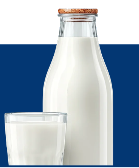
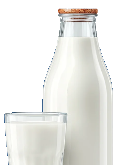
fix(reports): clean KPI cutouts and align Milk Component Dashboard payments with Tab 2

diff --git a/src/lib/sbfp-dashboard-infographic.ts b/src/lib/sbfp-dashboard-infographic.ts
@@ -5,15 +5,18 @@
 
 import { excludeAuxSbfp } from '@/lib/sbfp-aux'
 import { uniqueSdoCountKey } from '@/lib/sbfp-dropoff-sync'
-import { finishedMilkLiters } from '@/lib/sbfp-pack-price'
 import { parseSnapshotDate } from '@/lib/sbfp-raw-milk'
 import {
+  addSbfpSenateMetrics,
   buildSdoHierarchyStatusMap,
   cumulativeDeliveredPacksOnOrBefore,
   effectivePacksToDeliver,
+  emptySbfpSenateMetrics,
   rowMatchesReportCenterFilter,
   sbfpRowVisibleInReportDefault,
+  senateMetricsForRow,
   type SbfpReportSourceRow,
+  type SbfpSenateMetrics,
 } from '@/lib/sbfp-report-sync'
 
 const REGION_ORDER: Record<string, number> = {
@@ -43,28 +46,6 @@ const REGION_ORDER: Record<string, number> = {
 
 export function regionSortKey(region: string): number {
   return REGION_ORDER[region?.trim().toUpperCase()] ?? 99
-}
-
-function startOfDayMs(d: Date): number {
-  return new Date(d.getFullYear(), d.getMonth(), d.getDate()).getTime()
-}
-
-/** Sum payment entries whose date is on or before `asOfIso` (undated entries always count). */
-export function sumPaymentEntriesAsOf(entries: unknown, asOfIso: string): number {
-  if (!Array.isArray(entries)) return 0
-  const cutoff = parseSnapshotDate(asOfIso)
-  const cutoffMs = cutoff ? startOfDayMs(cutoff) : null
-  return entries.reduce((sum, entry) => {
-    if (!entry || typeof entry !== 'object') return sum
-    const rec = entry as { date?: unknown; amount?: unknown }
-    const amt = Number(rec.amount)
-    if (!Number.isFinite(amt)) return sum
-    if (cutoffMs != null && rec.date) {
-      const entryDate = parseSnapshotDate(rec.date)
-      if (entryDate && startOfDayMs(entryDate) > cutoffMs) return sum
-    }
-    return sum + amt
-  }, 0)
 }
 
 export function formatAsOfDateLabel(isoDate: string): string {
@@ -189,46 +170,26 @@ export function computeMilkComponentDashboard(
     }
   }
 
-  type RegionAcc = {
+  type RegionAcc = SbfpSenateMetrics & {
     region: string
     sdoKeys: Set<string>
     beneficiaries: number
-    deliveredPacks: number
-    targetPacks: number
-    contractAmt: number
-    contractedL: number
-    paidAmt: number
-    deliveredL: number
-    valueDelivered: number
   }
 
   const regionMap = new Map<string, RegionAcc>()
   const totalSdoKeys = new Set<string>()
   let totalBeneficiaries = 0
-  let totalDeliveredPacks = 0
-  let totalTargetPacks = 0
-  let totalContractAmt = 0
-  let totalContractedL = 0
-  let totalPaidAmt = 0
-  let totalDeliveredL = 0
-  let totalValueDelivered = 0
-  let totalRemainingContract = 0
+  let totalsMetrics = emptySbfpSenateMetrics()
 
   for (const r of visibleRows) {
     const region = r.region?.trim() || 'UNASSIGNED'
     let acc = regionMap.get(region)
     if (!acc) {
       acc = {
+        ...emptySbfpSenateMetrics(),
         region,
         sdoKeys: new Set<string>(),
         beneficiaries: 0,
-        deliveredPacks: 0,
-        targetPacks: 0,
-        contractAmt: 0,
-        contractedL: 0,
-        paidAmt: 0,
-        deliveredL: 0,
-        valueDelivered: 0,
       }
       regionMap.set(region, acc)
     }
@@ -247,47 +208,19 @@ export function computeMilkComponentDashboard(
     const targetPacks = Math.max(0, effectivePacksToDeliver(r))
     const deliveredPacks = Math.max(0, cumulativeDeliveredPacksOnOrBefore(r, asOfIso, dbYear))
     const contractAmt = Math.max(0, Number(r.contract_amount) || 0)
-    const paidAmt = sumPaymentEntriesAsOf(r.payment_entries, asOfIso)
 
-    const undeliveredPacks = Math.max(0, targetPacks - deliveredPacks)
-    const valueDelivered = targetPacks > 0 ? contractAmt * (deliveredPacks / targetPacks) : 0
-    const remainingContract =
-      targetPacks > 0 ? contractAmt * (undeliveredPacks / targetPacks) : contractAmt
-    const pesoFallback = contractAmt > 0 ? contractAmt : Number(r.amount) || 0
-    const volumeOpts = { milkType: r.milk_type, packUnitPrice: r.pack_unit_price }
-
-    const contractedL = finishedMilkLiters({
-      ...volumeOpts,
-      packs: targetPacks,
-      peso: pesoFallback,
-    })
-    const deliveredL = finishedMilkLiters({
-      ...volumeOpts,
-      packs: deliveredPacks,
-      peso:
-        valueDelivered > 0
-          ? valueDelivered
-          : pesoFallback * (targetPacks > 0 ? deliveredPacks / targetPacks : 0),
+    // Matches SBFP Report Tab 2 (Payment and Implementation Status) and Tab 3 (Regional Distribution).
+    const rowMetrics = senateMetricsForRow(r, {
+      packs_to_deliver: targetPacks,
+      delivered_packs: deliveredPacks,
+      contract_amount: contractAmt,
     })
 
     acc.beneficiaries += beneficiaries
-    acc.deliveredPacks += deliveredPacks
-    acc.targetPacks += targetPacks
-    acc.contractAmt += contractAmt
-    acc.contractedL += contractedL
-    acc.paidAmt += paidAmt
-    acc.deliveredL += deliveredL
-    acc.valueDelivered += valueDelivered
+    Object.assign(acc, addSbfpSenateMetrics(acc, rowMetrics))
 
     totalBeneficiaries += beneficiaries
-    totalDeliveredPacks += deliveredPacks
-    totalTargetPacks += targetPacks
-    totalContractAmt += contractAmt
-    totalContractedL += contractedL
-    totalPaidAmt += paidAmt
-    totalDeliveredL += deliveredL
-    totalValueDelivered += valueDelivered
-    totalRemainingContract += remainingContract
+    totalsMetrics = addSbfpSenateMetrics(totalsMetrics, rowMetrics)
   }
 
   const regions: MilkComponentRegionRow[] = Array.from(regionMap.values())
@@ -303,8 +236,8 @@ export function computeMilkComponentDashboard(
       paidAmt: acc.paidAmt,
       deliveredL: acc.deliveredL,
       valueDelivered: acc.valueDelivered,
-      pctDelivered: acc.targetPacks > 0 ? (acc.deliveredPacks / acc.targetPacks) * 100 : 0,
-      pctDisbursed: acc.contractAmt > 0 ? (acc.paidAmt / acc.contractAmt) * 100 : 0,
+      pctDelivered: acc.pctDelivered,
+      pctDisbursed: acc.pctDisbursed,
     }))
 
   return {
@@ -314,17 +247,17 @@ export function computeMilkComponentDashboard(
     totals: {
       sdoCount: totalSdoKeys.size,
       beneficiaries: totalBeneficiaries,
-      deliveredPacks: totalDeliveredPacks,
-      targetPacks: totalTargetPacks,
-      contractAmt: totalContractAmt,
-      contractedL: totalContractedL,
-      paidAmt: totalPaidAmt,
-      deliveredL: totalDeliveredL,
-      undeliveredL: Math.max(0, totalContractedL - totalDeliveredL),
-      valueDelivered: totalValueDelivered,
-      remainingContract: totalRemainingContract,
-      pctDelivered: totalTargetPacks > 0 ? (totalDeliveredPacks / totalTargetPacks) * 100 : 0,
-      pctDisbursed: totalContractAmt > 0 ? (totalPaidAmt / totalContractAmt) * 100 : 0,
+      deliveredPacks: totalsMetrics.deliveredPacks,
+      targetPacks: totalsMetrics.targetPacks,
+      contractAmt: totalsMetrics.contractAmt,
+      contractedL: totalsMetrics.contractedL,
+      paidAmt: totalsMetrics.paidAmt,
+      deliveredL: totalsMetrics.deliveredL,
+      undeliveredL: totalsMetrics.undeliveredL,
+      valueDelivered: totalsMetrics.valueDelivered,
+      remainingContract: totalsMetrics.remainingContract,
+      pctDelivered: totalsMetrics.pctDelivered,
+      pctDisbursed: totalsMetrics.pctDisbursed,
     },
     regions,
   }

diff --git a/src/app/(app)/reports/sbfp-dashboard/page.tsx b/src/app/(app)/reports/sbfp-dashboard/page.tsx
@@ -705,7 +705,7 @@ export default function MilkComponentDashboardPage() {
               {/* 2. Top 3 KPI Cards */}
               <div
                 style={{
-                  padding: '8px 48px 0',
+                  padding: '12px 48px 0',
                   display: 'grid',
                   gridTemplateColumns: 'repeat(3, minmax(0, 1fr))',
                   gap: 18,
@@ -713,26 +713,26 @@ export default function MilkComponentDashboardPage() {
               >
                 {/* Card 1: Actual Volume Delivered */}
                 <div style={{ display: 'flex', flexDirection: 'column', alignItems: 'center' }}>
-                  <div style={{ position: 'relative', width: '100%', height: 200 }}>
+                  <div style={{ position: 'relative', width: '100%', height: 170 }}>
                     <div
                       style={{
                         position: 'absolute',
                         left: 0,
                         right: 0,
                         bottom: 0,
-                        height: 162,
+                        height: 124,
                         background: NAVY,
                         display: 'flex',
                         alignItems: 'center',
                         justifyContent: 'flex-end',
-                        padding: '0 18px 0 156px',
+                        padding: '0 18px 0 152px',
                       }}
                     >
                       <FittedText
                         text={formatCompactLiters(totals.deliveredL, 3)}
-                        maxWidth={250}
-                        maxSize={96}
-                        minSize={46}
+                        maxWidth={254}
+                        maxSize={84}
+                        minSize={42}
                         weight={700}
                         color={GOLD}
                         align="center"
@@ -745,8 +745,8 @@ export default function MilkComponentDashboardPage() {
                         position: 'absolute',
                         left: 0,
                         bottom: 0,
-                        width: 150,
-                        height: 168,
+                        width: 146,
+                        height: 165,
                         objectFit: 'contain',
                         pointerEvents: 'none',
                       }}
@@ -769,26 +769,26 @@ export default function MilkComponentDashboardPage() {
 
                 {/* Card 2: Total Value of Milk Contracts */}
                 <div style={{ display: 'flex', flexDirection: 'column', alignItems: 'center' }}>
-                  <div style={{ position: 'relative', width: '100%', height: 200 }}>
+                  <div style={{ position: 'relative', width: '100%', height: 170 }}>
                     <div
                       style={{
                         position: 'absolute',
                         left: 0,
                         right: 0,
                         bottom: 0,
-                        height: 162,
+                        height: 124,
                         background: NAVY,
                         display: 'flex',
                         alignItems: 'center',
                         justifyContent: 'flex-start',
-                        padding: '0 148px 0 16px',
+                        padding: '0 150px 0 16px',
                       }}
                     >
                       <FittedText
                         text={formatCompactPeso(totals.contractAmt)}
-                        maxWidth={260}
-                        maxSize={96}
-                        minSize={46}
+                        maxWidth={258}
+                        maxSize={84}
+                        minSize={42}
                         weight={700}
                         color={GOLD}
                         align="center"
@@ -801,8 +801,8 @@ export default function MilkComponentDashboardPage() {
                         position: 'absolute',
                         right: 0,
                         bottom: 0,
-                        width: 150,
-                        height: 158,
+                        width: 148,
+                        height: 155,
                         objectFit: 'contain',
                         pointerEvents: 'none',
                       }}
@@ -825,14 +825,14 @@ export default function MilkComponentDashboardPage() {
 
                 {/* Card 3: Total Contracted Volume */}
                 <div style={{ display: 'flex', flexDirection: 'column', alignItems: 'center' }}>
-                  <div style={{ position: 'relative', width: '100%', height: 200 }}>
+                  <div style={{ position: 'relative', width: '100%', height: 170 }}>
                     <div
                       style={{
                         position: 'absolute',
                         left: 0,
                         right: 0,
                         bottom: 0,
-                        height: 162,
+                        height: 124,
                         background: NAVY,
                         display: 'flex',
                         alignItems: 'center',
@@ -843,8 +843,8 @@ export default function MilkComponentDashboardPage() {
                       <FittedText
                         text={formatCompactLiters(totals.contractedL, 1)}
                         maxWidth={266}
-                        maxSize={96}
-                        minSize={46}
+                        maxSize={84}
+                        minSize={42}
                         weight={700}
                         color={GOLD}
                         align="center"
@@ -858,7 +858,7 @@ export default function MilkComponentDashboardPage() {
                         right: 0,
                         bottom: 0,
                         width: 139,
-                        height: 168,
+                        height: 165,
                         objectFit: 'contain',
                         pointerEvents: 'none',
                       }}
